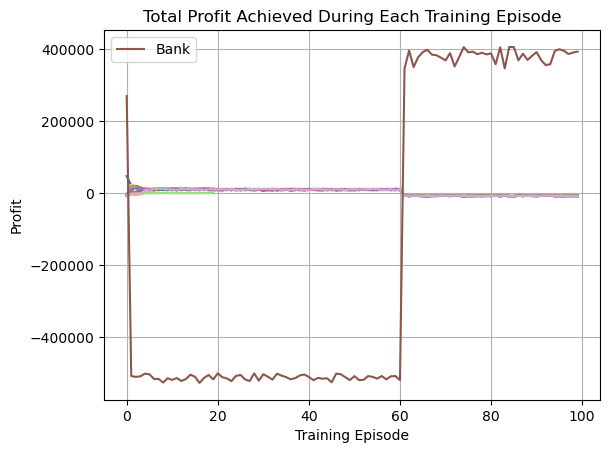
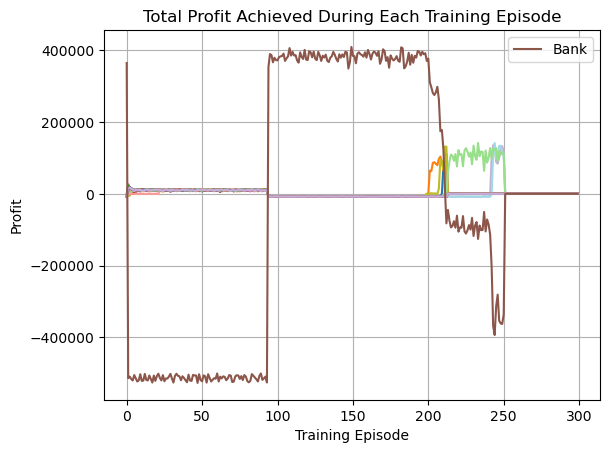
Clean up results

diff --git a/simulations/dqn_simulation.py b/simulations/dqn_simulation.py
@@ -24,7 +24,7 @@ state_dim, starting_balance, bank_starting_balance = \
     state.vectorize().shape[-1], state.starting_balance, state.bank_starting_balance
 agents = [DQNAgent('Bank', state_dim, 2, is_bank=True) if i == num_agents - 1 else
           DQNAgent(f'DQN_{i}', state_dim - 2, is_bank=False) for i in range(num_agents)]
-num_episodes = 100
+num_episodes = 300
 training_profits, test_profits = {}, {}
 
 for episode in range(num_episodes):

diff --git a/simulations/variety_simulation.py b/simulations/variety_simulation.py
@@ -44,7 +44,7 @@ bank_agents = [DQNAgent(f'Bank', state_dim, 2, is_bank=True)]
 agents = ucb_agents + macd_agents + eee_agents + exp3_agents + dqn_agents + rsi_agents + macd_stoch_agents + \
          stochastic_agents + bank_agents
 assert len(agents) == num_agents
-num_episodes = 200
+num_episodes = 300
 training_profits, test_profits = {}, {}
 
 for episode in range(num_episodes):
